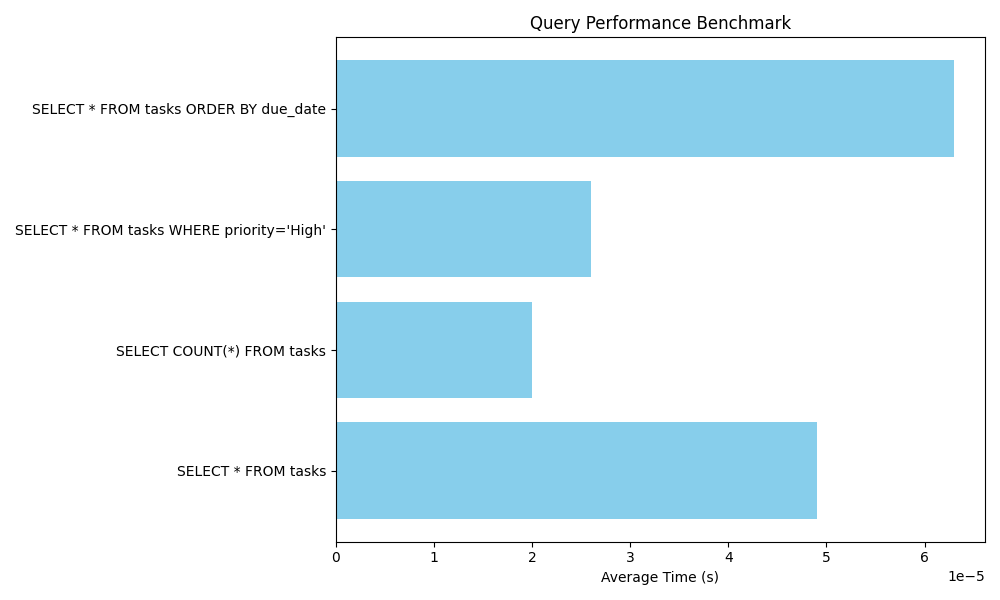
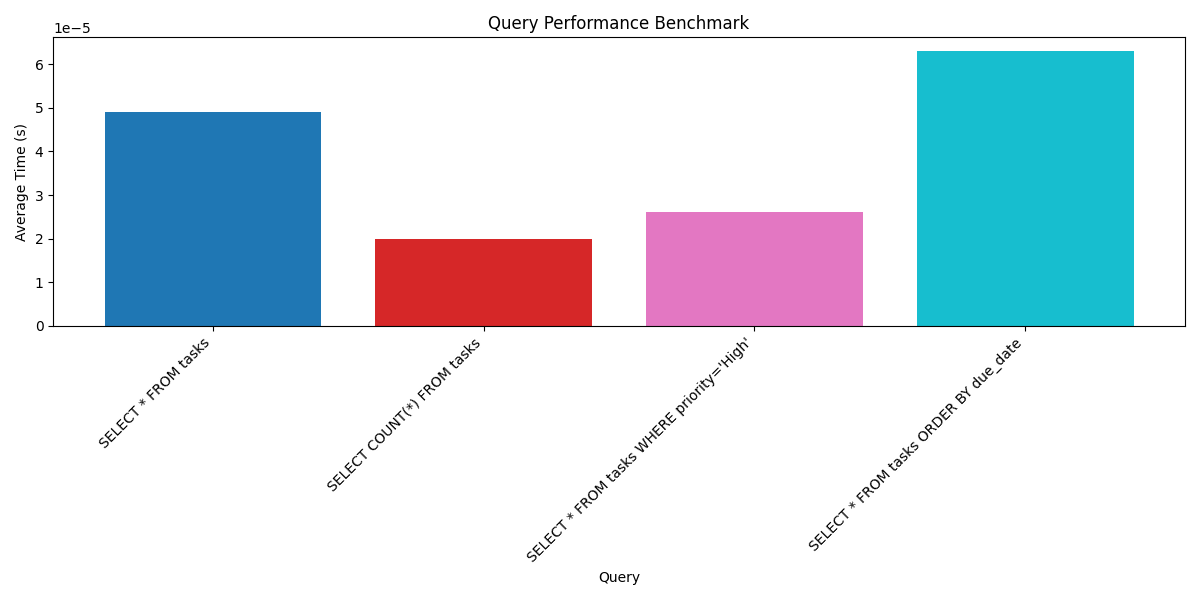
chart changed

diff --git a/task_database/visualize.py b/task_database/visualize.py
@@ -4,7 +4,7 @@ import matplotlib.pyplot as plt
 def show_chart():
     """
     This function reads the benchmark results from 'results.csv' and generates
-    a horizontal bar chart to visualize the average execution time of each SQL query.
+    a vertical bar chart to visualize the average execution time of each SQL query.
     The chart is saved as 'performance_chart.png' and also displayed.
 
     The CSV file is expected to have columns: "Query" and "Avg Time (s)".
@@ -13,11 +13,16 @@ def show_chart():
     # Read the benchmark results from the CSV file into a DataFrame
     df = pd.read_csv("results.csv")
 
+    # Generate unique colors for each bar
+    colors = plt.cm.get_cmap("tab10", len(df))  # Using 'tab10' colormap
+
     # Plotting
-    plt.figure(figsize=(10, 6))  # Set the figure size
-    plt.barh(df["Query"], df["Avg Time (s)"], color="skyblue")  # Create horizontal bar chart
-    plt.xlabel("Average Time (s)")  # Label for the x-axis
+    plt.figure(figsize=(12, 6))  # Set the figure size
+    plt.bar(df["Query"], df["Avg Time (s)"], color=[colors(i) for i in range(len(df))])  # Vertical bar chart
+    plt.ylabel("Average Time (s)")  # Label for the y-axis
+    plt.xlabel("Query")  # Label for the x-axis
     plt.title("Query Performance Benchmark")  # Title for the chart
+    plt.xticks(rotation=45, ha="right")  # Rotate x-axis labels for better readability
     plt.tight_layout()  # Adjust layout to prevent clipping
     plt.savefig("performance_chart.png")  # Save the chart as a PNG file
     plt.show()  # Display the chart
